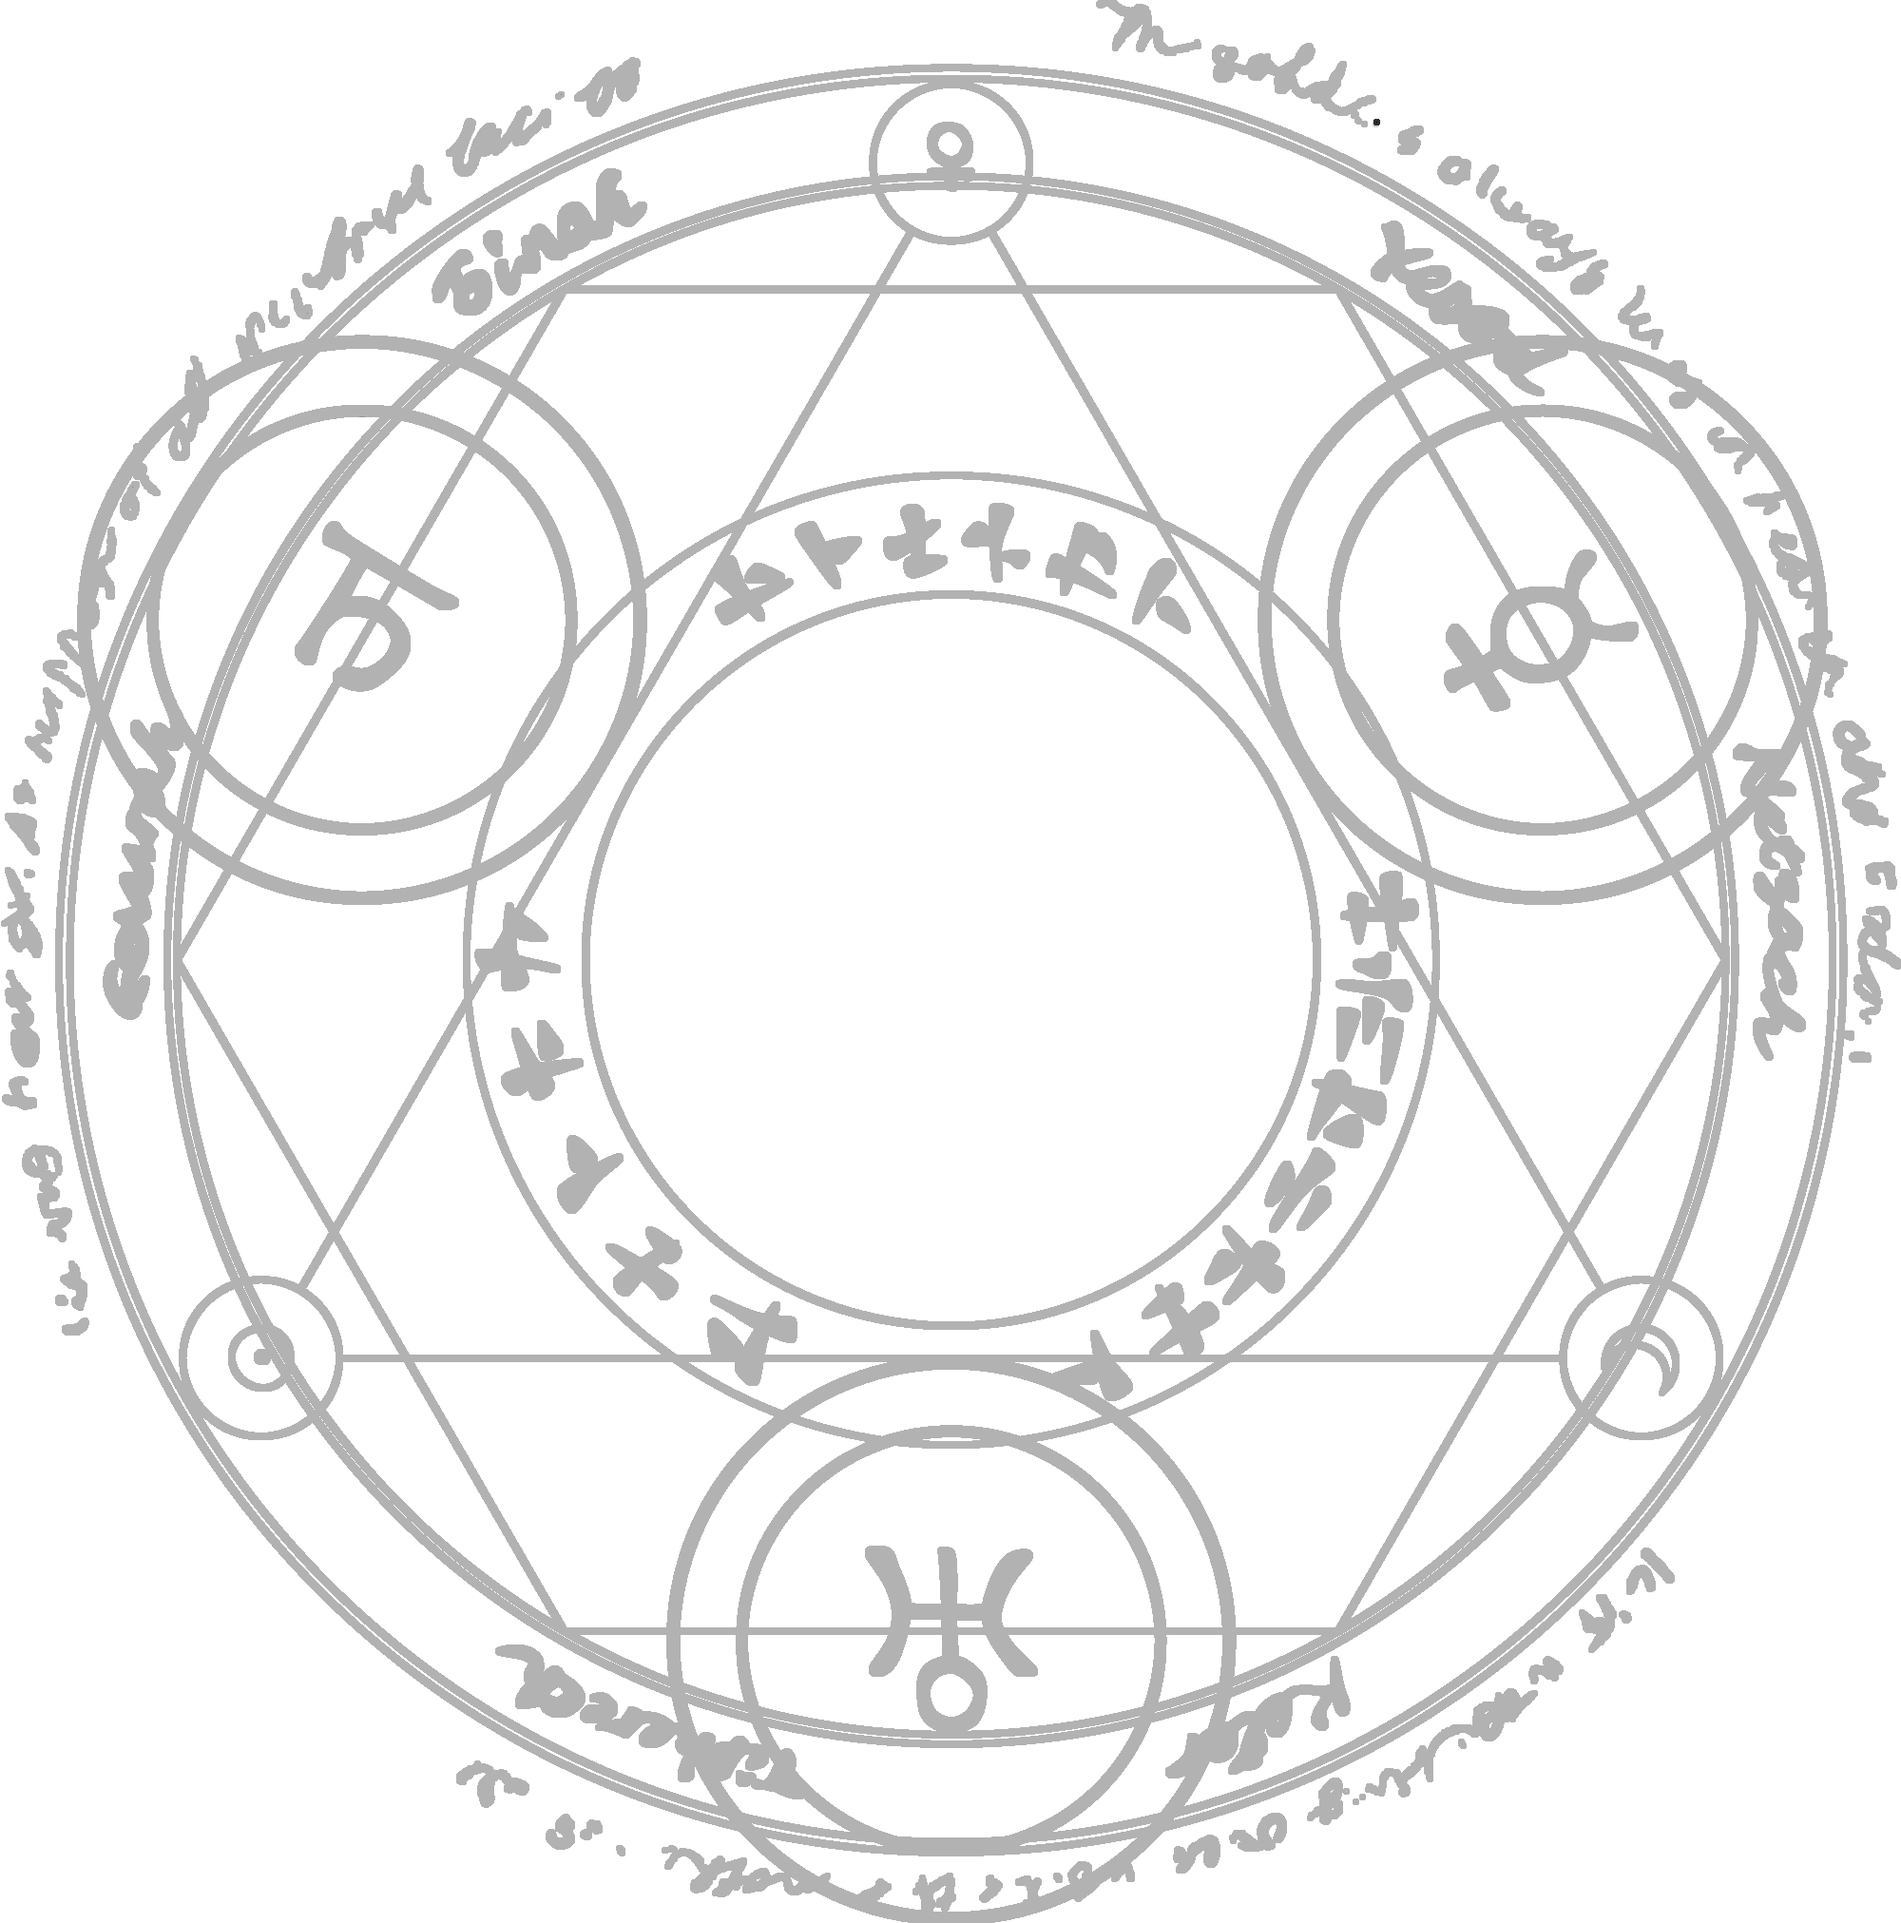
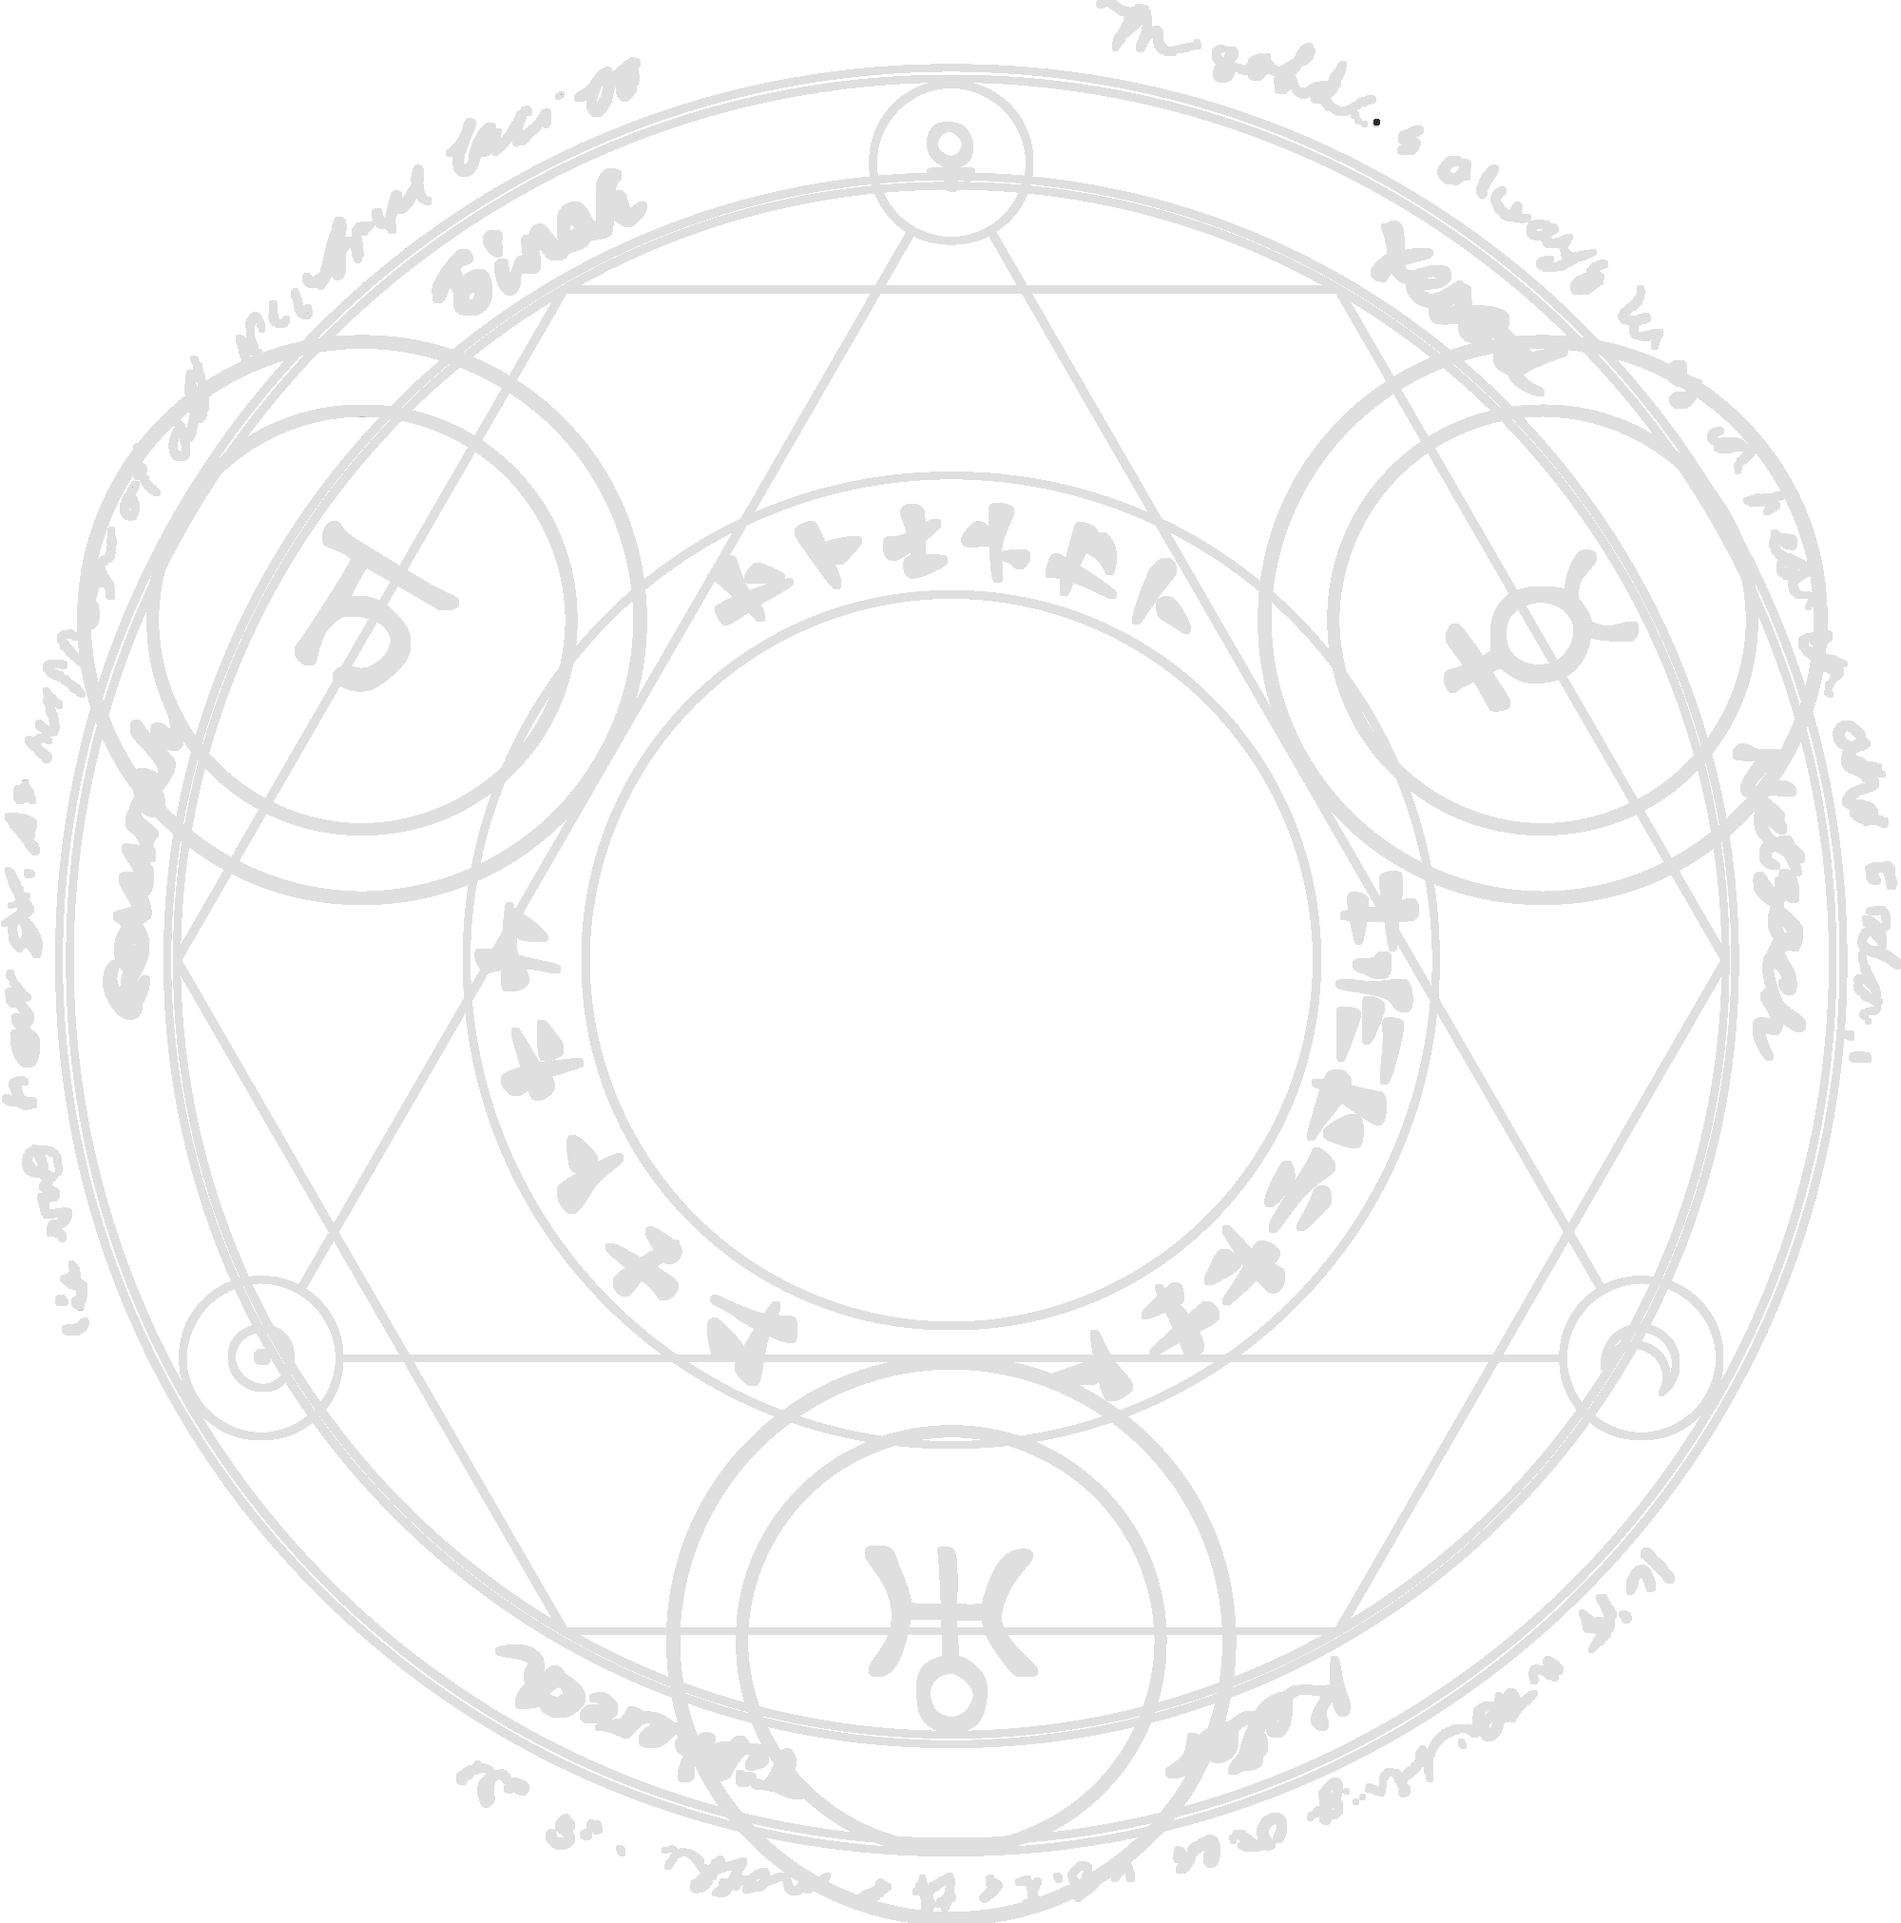
change opacity for background image of magic rolltemplate

Changed region(s): [[0.0, 0.0, 1.0, 1.0], [0.775, 0.5606, 0.806, 0.5917], [0.155, 0.8097, 0.186, 0.8408]]

diff --git a/Pathfinder Adventurer's/pathfinder-adventurers.css b/Pathfinder Adventurer's/pathfinder-adventurers.css
@@ -2568,6 +2568,6 @@ input[name="attr_foo_character_dexterity_total_alert"][value="show"] ~ div input
 
 /* template - magic */
 .sheet-rolltemplate-roll .sheet-magic {
-    background: url("https://raw.githubusercontent.com/aloade/roll20-character-sheets/master/Pathfinder%20Adventurer%27s/image/incantation5.png") no-repeat center;
+    background: url("https://raw.githubusercontent.com/aloade/roll20-character-sheets/master/Pathfinder%20Adventurer%27s/image/incantation.png") no-repeat center;
     background-size: contain;
 }
